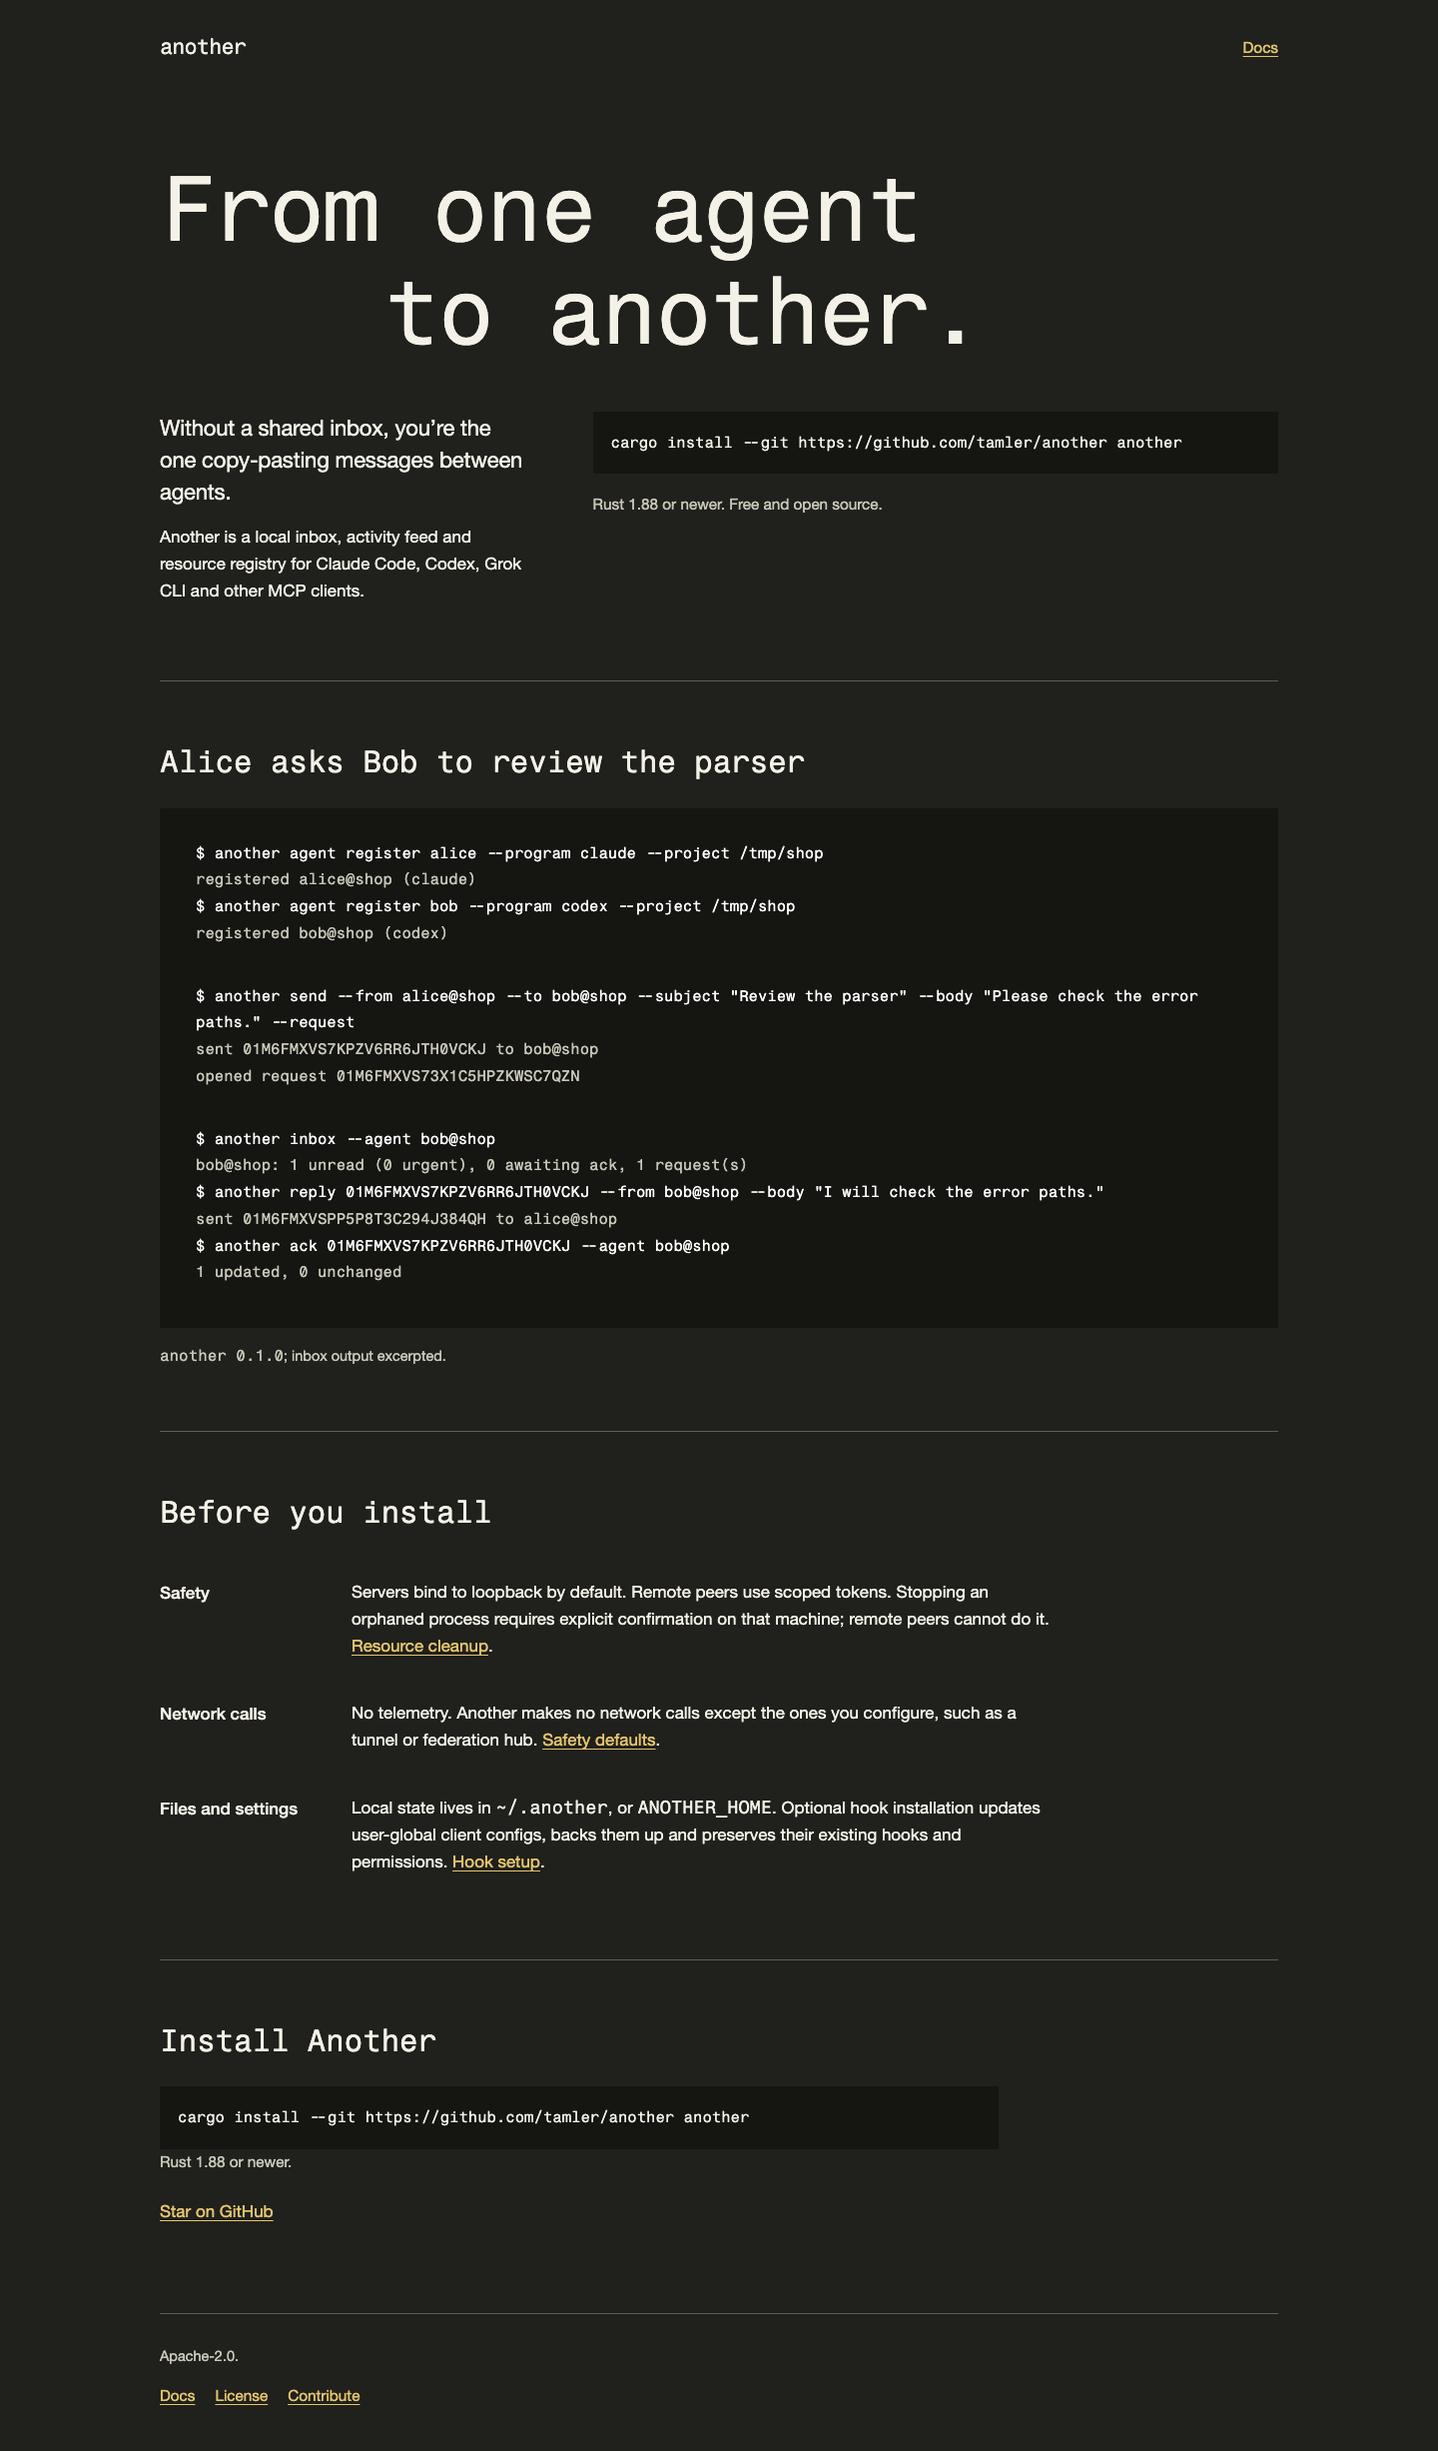
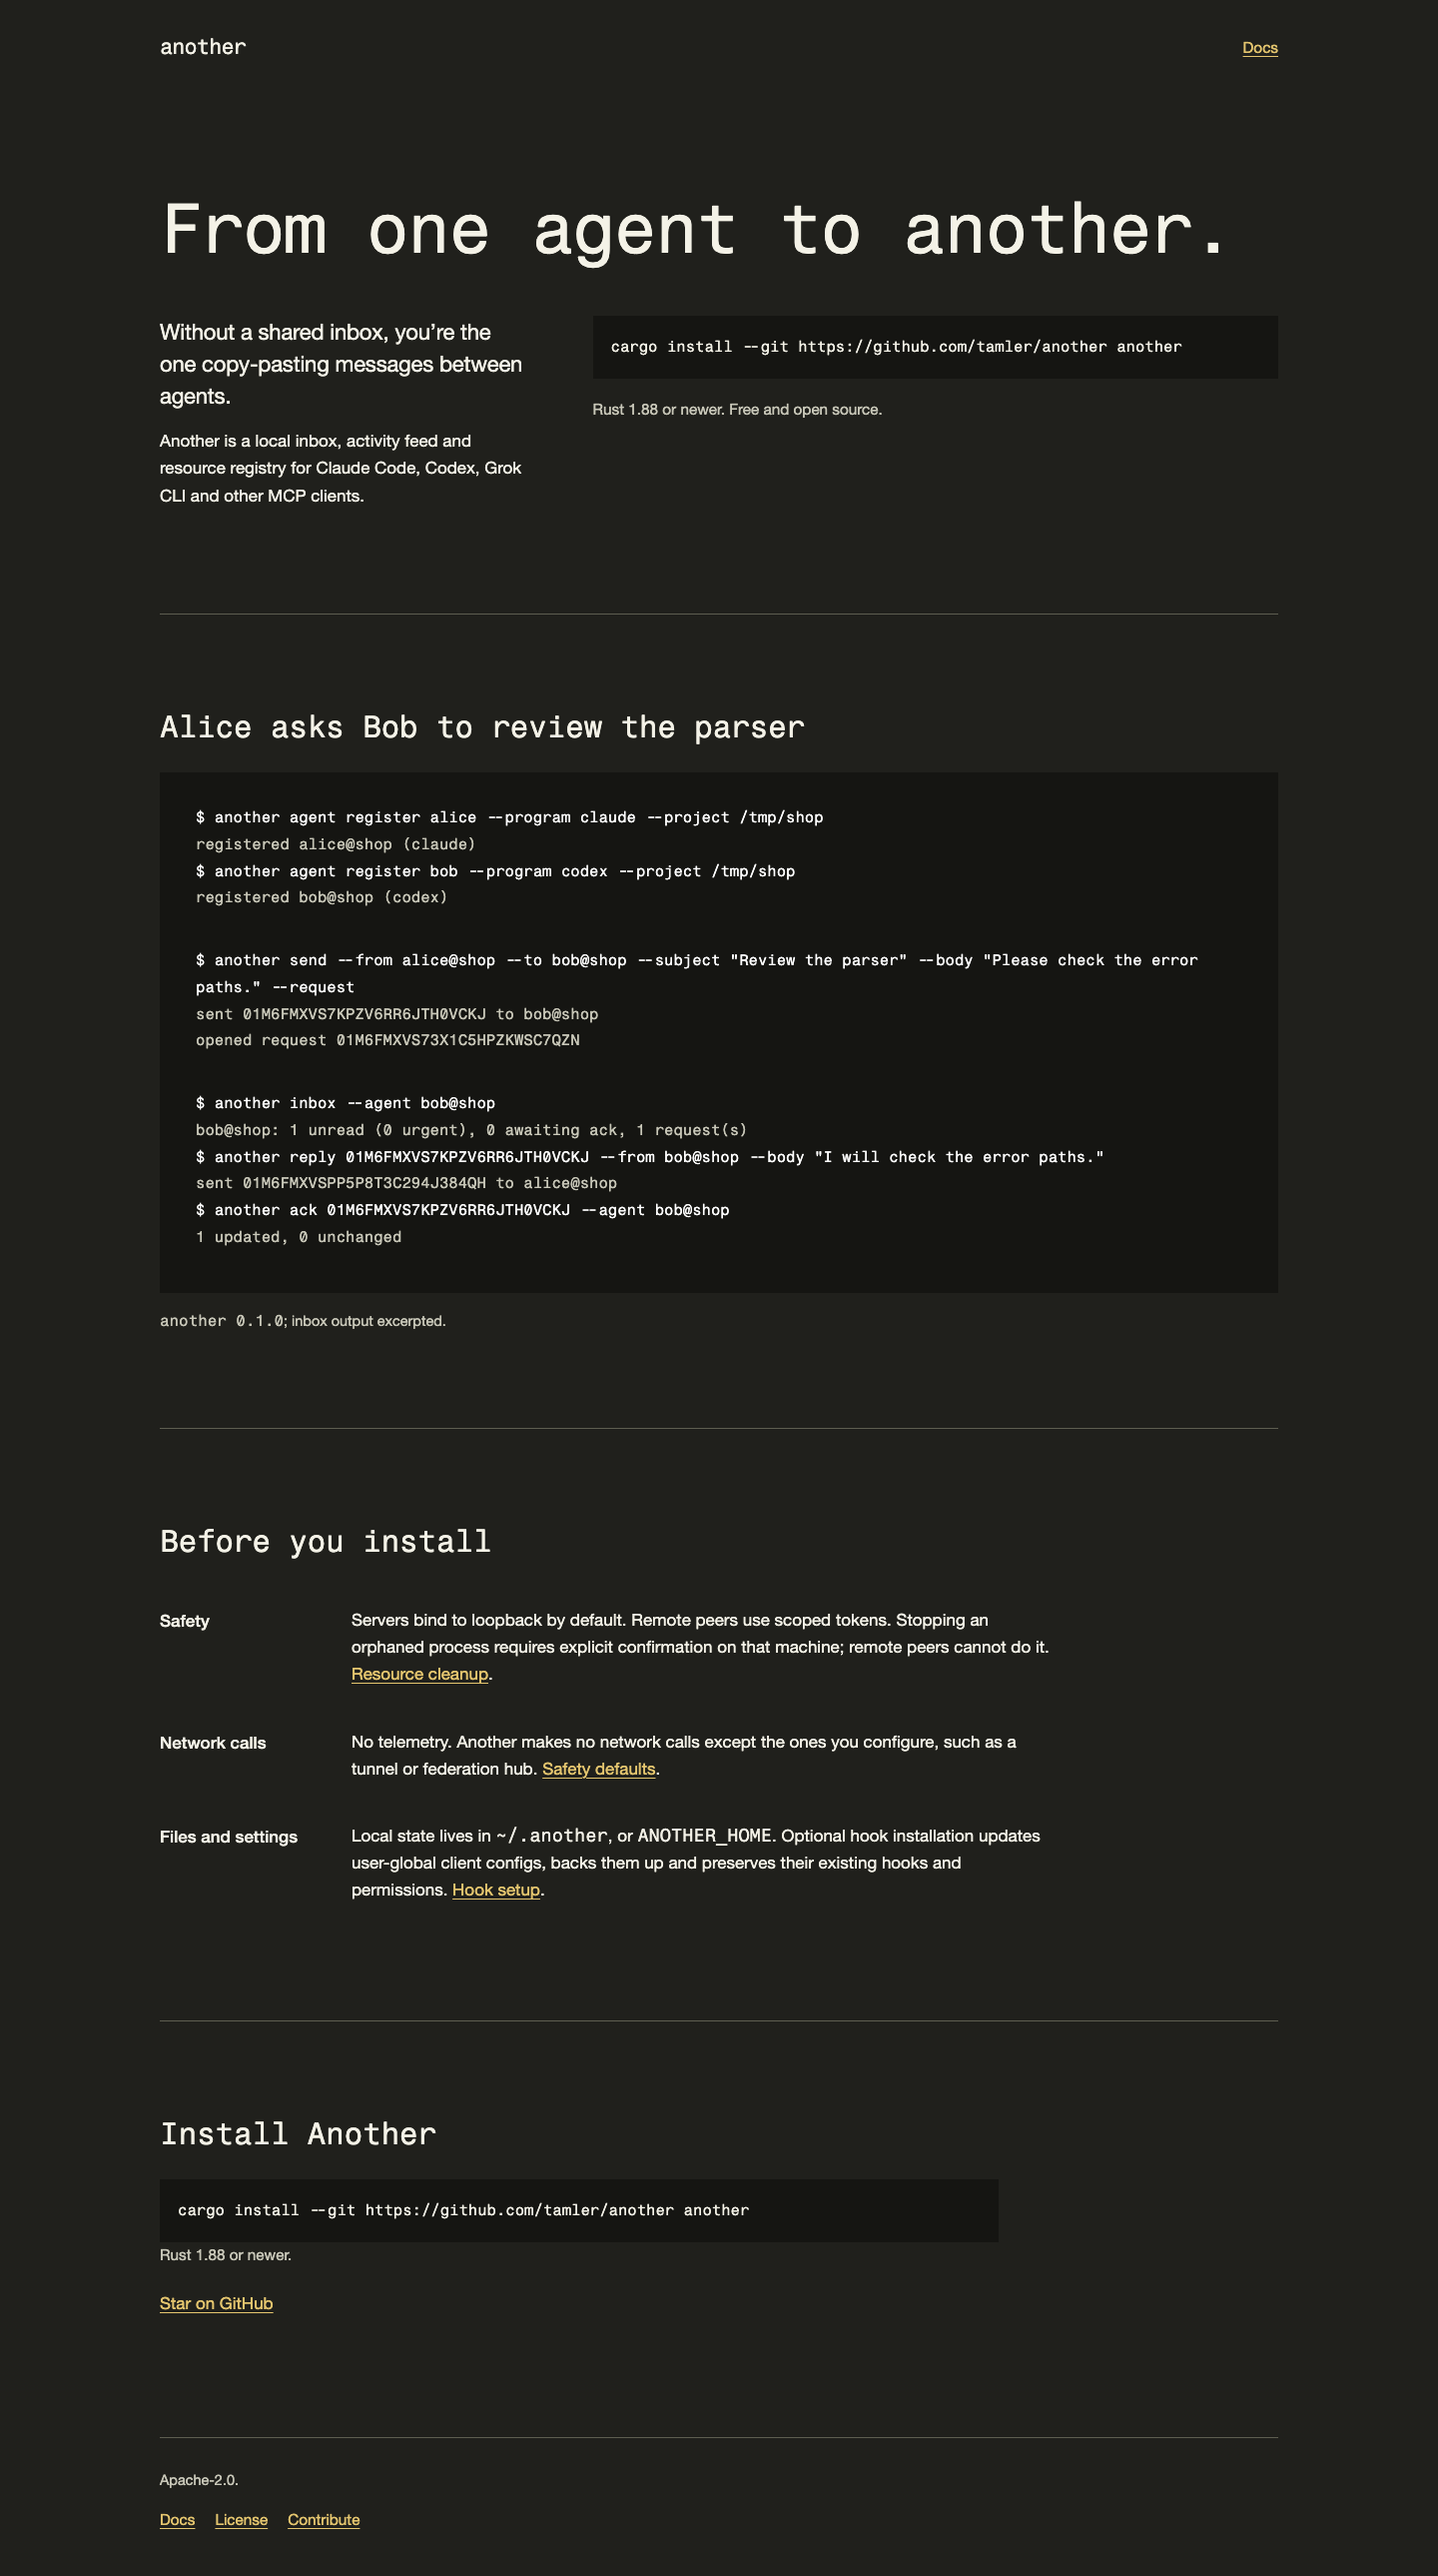
fix(site): balance hero title and open section spacing

diff --git a/site/style.css b/site/style.css
@@ -58,8 +58,8 @@ h2 { font-family: var(--mono); font-weight: 400; font-size: clamp(1.35rem, 2.4vw
 h3 { font-size: 1.2rem; font-weight: 500; letter-spacing: 0; }
 p { max-width: 66ch; }
 p + p { margin-top: 16px; }
-.hero { padding-block: 64px 76px; }
-.handoff { display: block; margin-left: 20%; }
+.hero { padding-block: 96px 104px; }
+.hero h1 { font-size: clamp(2rem, 5vw, 4.1rem); text-wrap: balance; }
 .hero-bottom { display: grid; grid-template-columns: .7fr 1.3fr; gap: 64px; margin-top: 48px; align-items: start; }
 .definition { font-size: 1.3rem; line-height: 1.45; letter-spacing: -.01em; }
 .quiet { color: var(--muted); font-size: .9rem; }
@@ -82,7 +82,7 @@ pre code { font-size: inherit; font-size-adjust: inherit; white-space: inherit; 
 .objections > div { display: grid; grid-template-columns: 160px 1fr; gap: 32px; padding-block: 20px; }
 .objections dt { font-weight: 500; }
 .objections dd { margin: 0; }
-.section { padding-block: 64px; border-top: 1px solid var(--rule); }
+.section { padding-block: 96px; border-top: 1px solid var(--rule); }
 .section > h2 { margin-bottom: 28px; }
 .section > p { margin-bottom: 24px; }
 .terminal { background: var(--terminal); color: var(--terminal-ink); padding: 32px 36px; }
@@ -117,12 +117,12 @@ figure { margin: 0; }
   .wrap { width: calc(100% - 40px); }
   .masthead { padding-block: 22px; gap: 16px; }
   nav { gap: 20px; }
-  .hero { padding-block: 36px 48px; }
-  .handoff { margin-left: 16%; }
+  .hero { padding-block: 48px 64px; }
+  .hero h1 { font-size: clamp(1.8rem, 8.75vw, 2rem); }
   .hero-bottom { grid-template-columns: 1fr; gap: 20px; }
   .hero-bottom { margin-top: 32px; gap: 30px; }
   .definition { font-size: 1.15rem; }
-  .section { padding-block: 40px; }
+  .section { padding-block: 64px; }
   .terminal { padding: 24px 18px; }
   .code-block { padding: 18px 16px; }
   .client { grid-template-columns: 1fr; gap: 8px; }

diff --git a/site/index.html b/site/index.html
@@ -17,7 +17,7 @@
   </header>
   <main id="main" class="wrap" tabindex="-1">
     <section class="hero" aria-labelledby="headline">
-      <h1 id="headline">From one agent <span class="handoff">to another.</span></h1>
+      <h1 id="headline">From one agent to another.</h1>
       <div class="hero-bottom">
         <div>
           <p class="definition">Without a shared inbox, you’re the one copy-pasting messages between agents.</p>

diff --git a/site/README.md b/site/README.md
@@ -42,9 +42,10 @@ Fragment Mono gives the headline, wordmark and commands the same terminal voice;
 prose uses Helvetica Neue/Helvetica/Arial with a generic sans-serif fallback.
 The unmodified font and its OFL license are included locally; provenance and
 hashes are in [fonts/README.md](fonts/README.md). Both themes use neutral paper/ink
-and an ochre signal color. The indented handoff and actual commands supply the
-identity; docs and 404 show their route beside the wordmark. Review generic
-fallback rendering in both themes as well as native rendering.
+and an ochre signal color. The single-line desktop title, balanced mobile title
+and actual commands supply the identity; docs and 404 show their route beside
+the wordmark. Review generic fallback rendering in both themes as well as native
+rendering.
 
 `review/` holds full-page screenshots of all pages at desktop and mobile widths,
 with deliberate light and dark themes and fallback fonts, plus full-size detail
